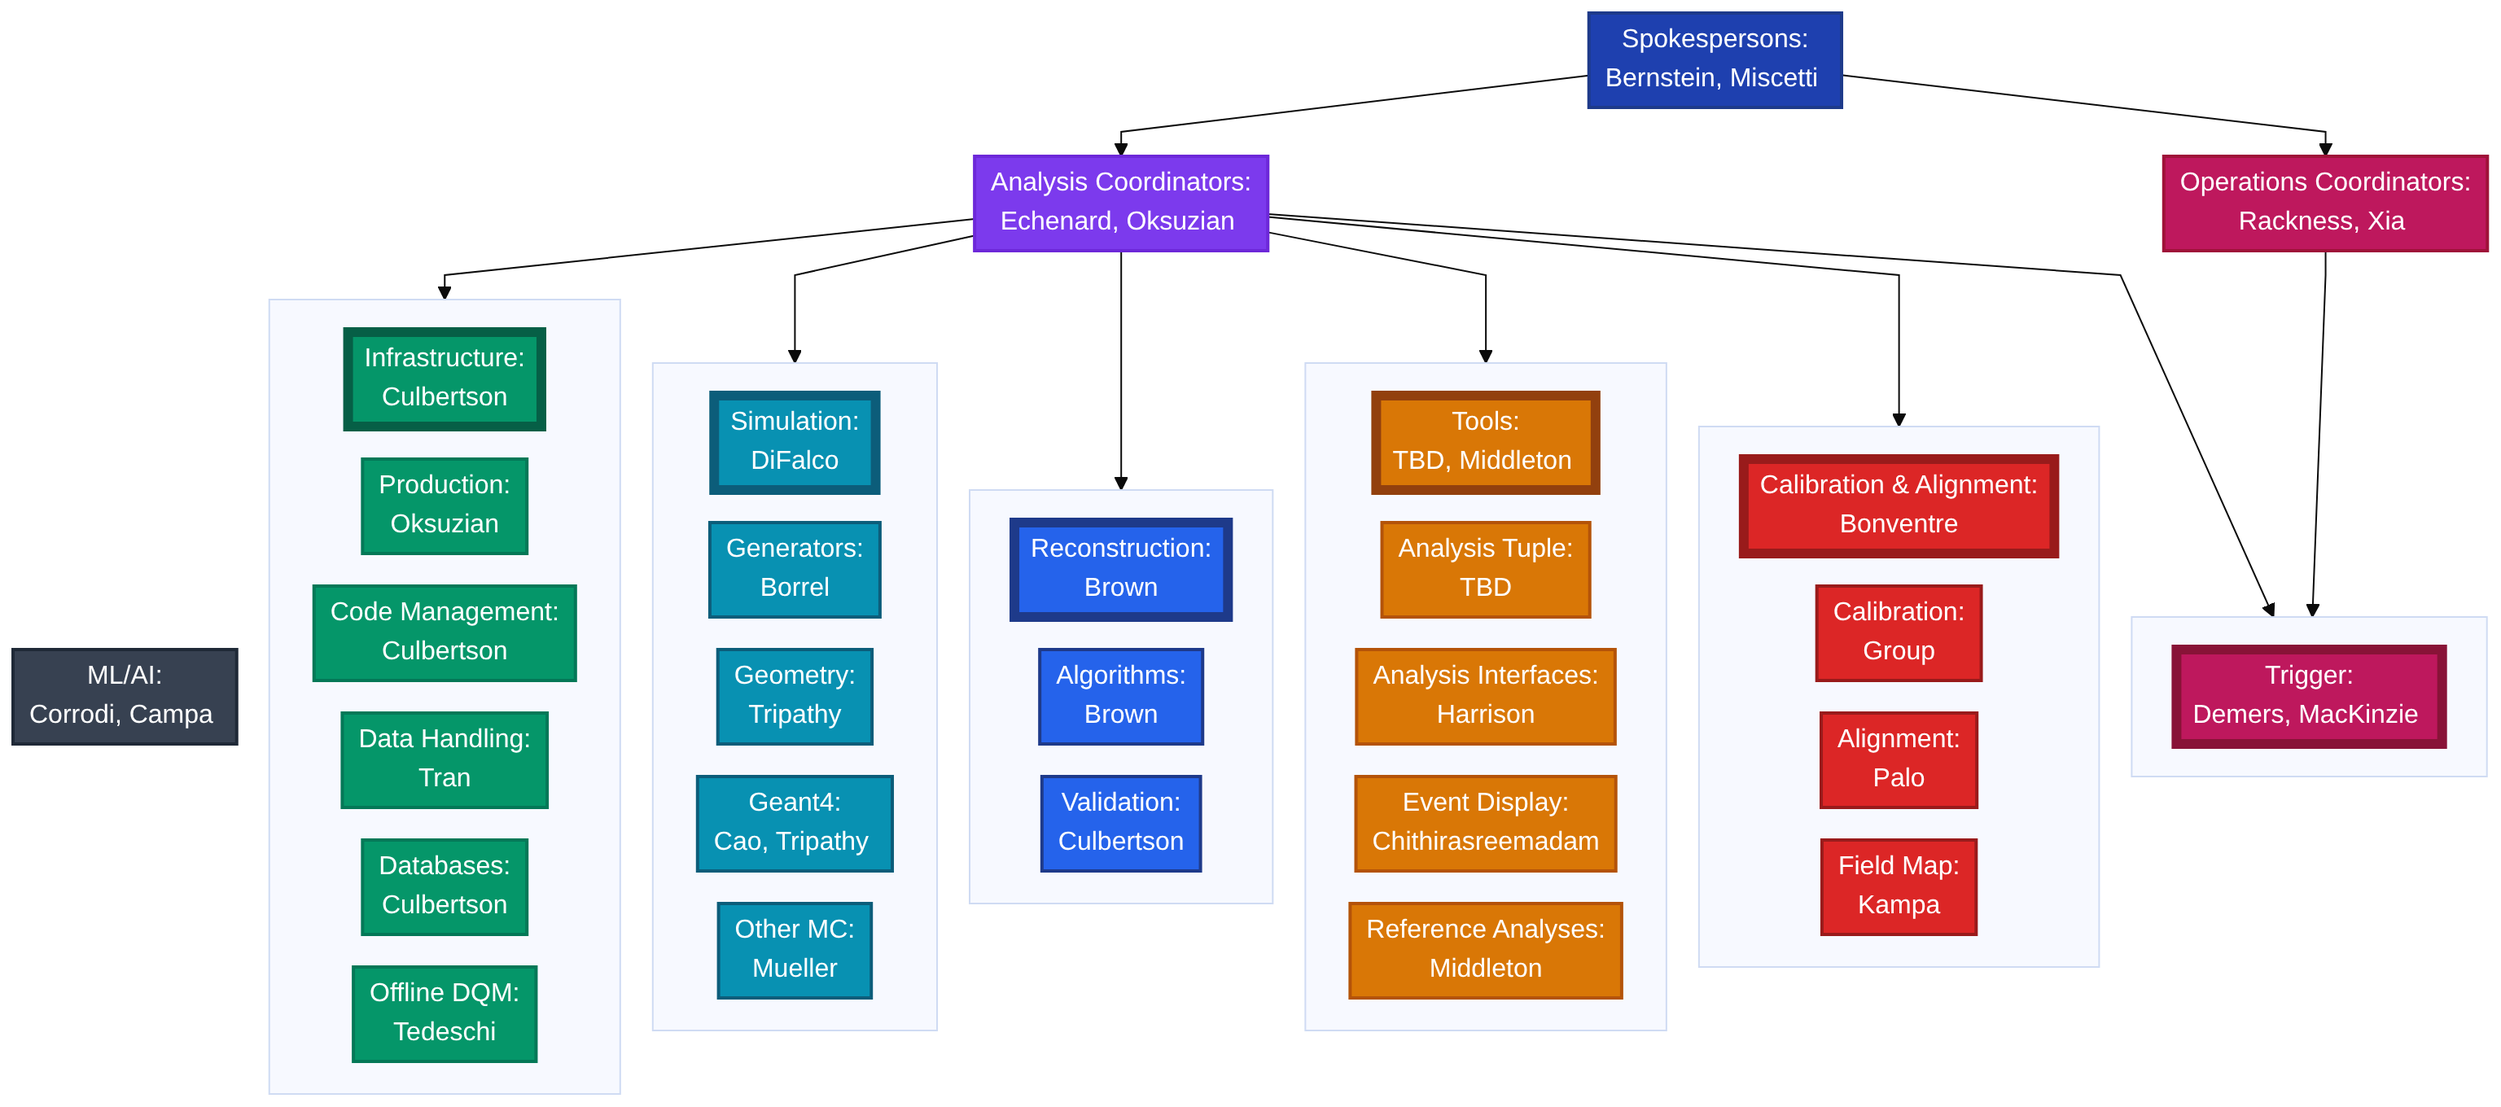
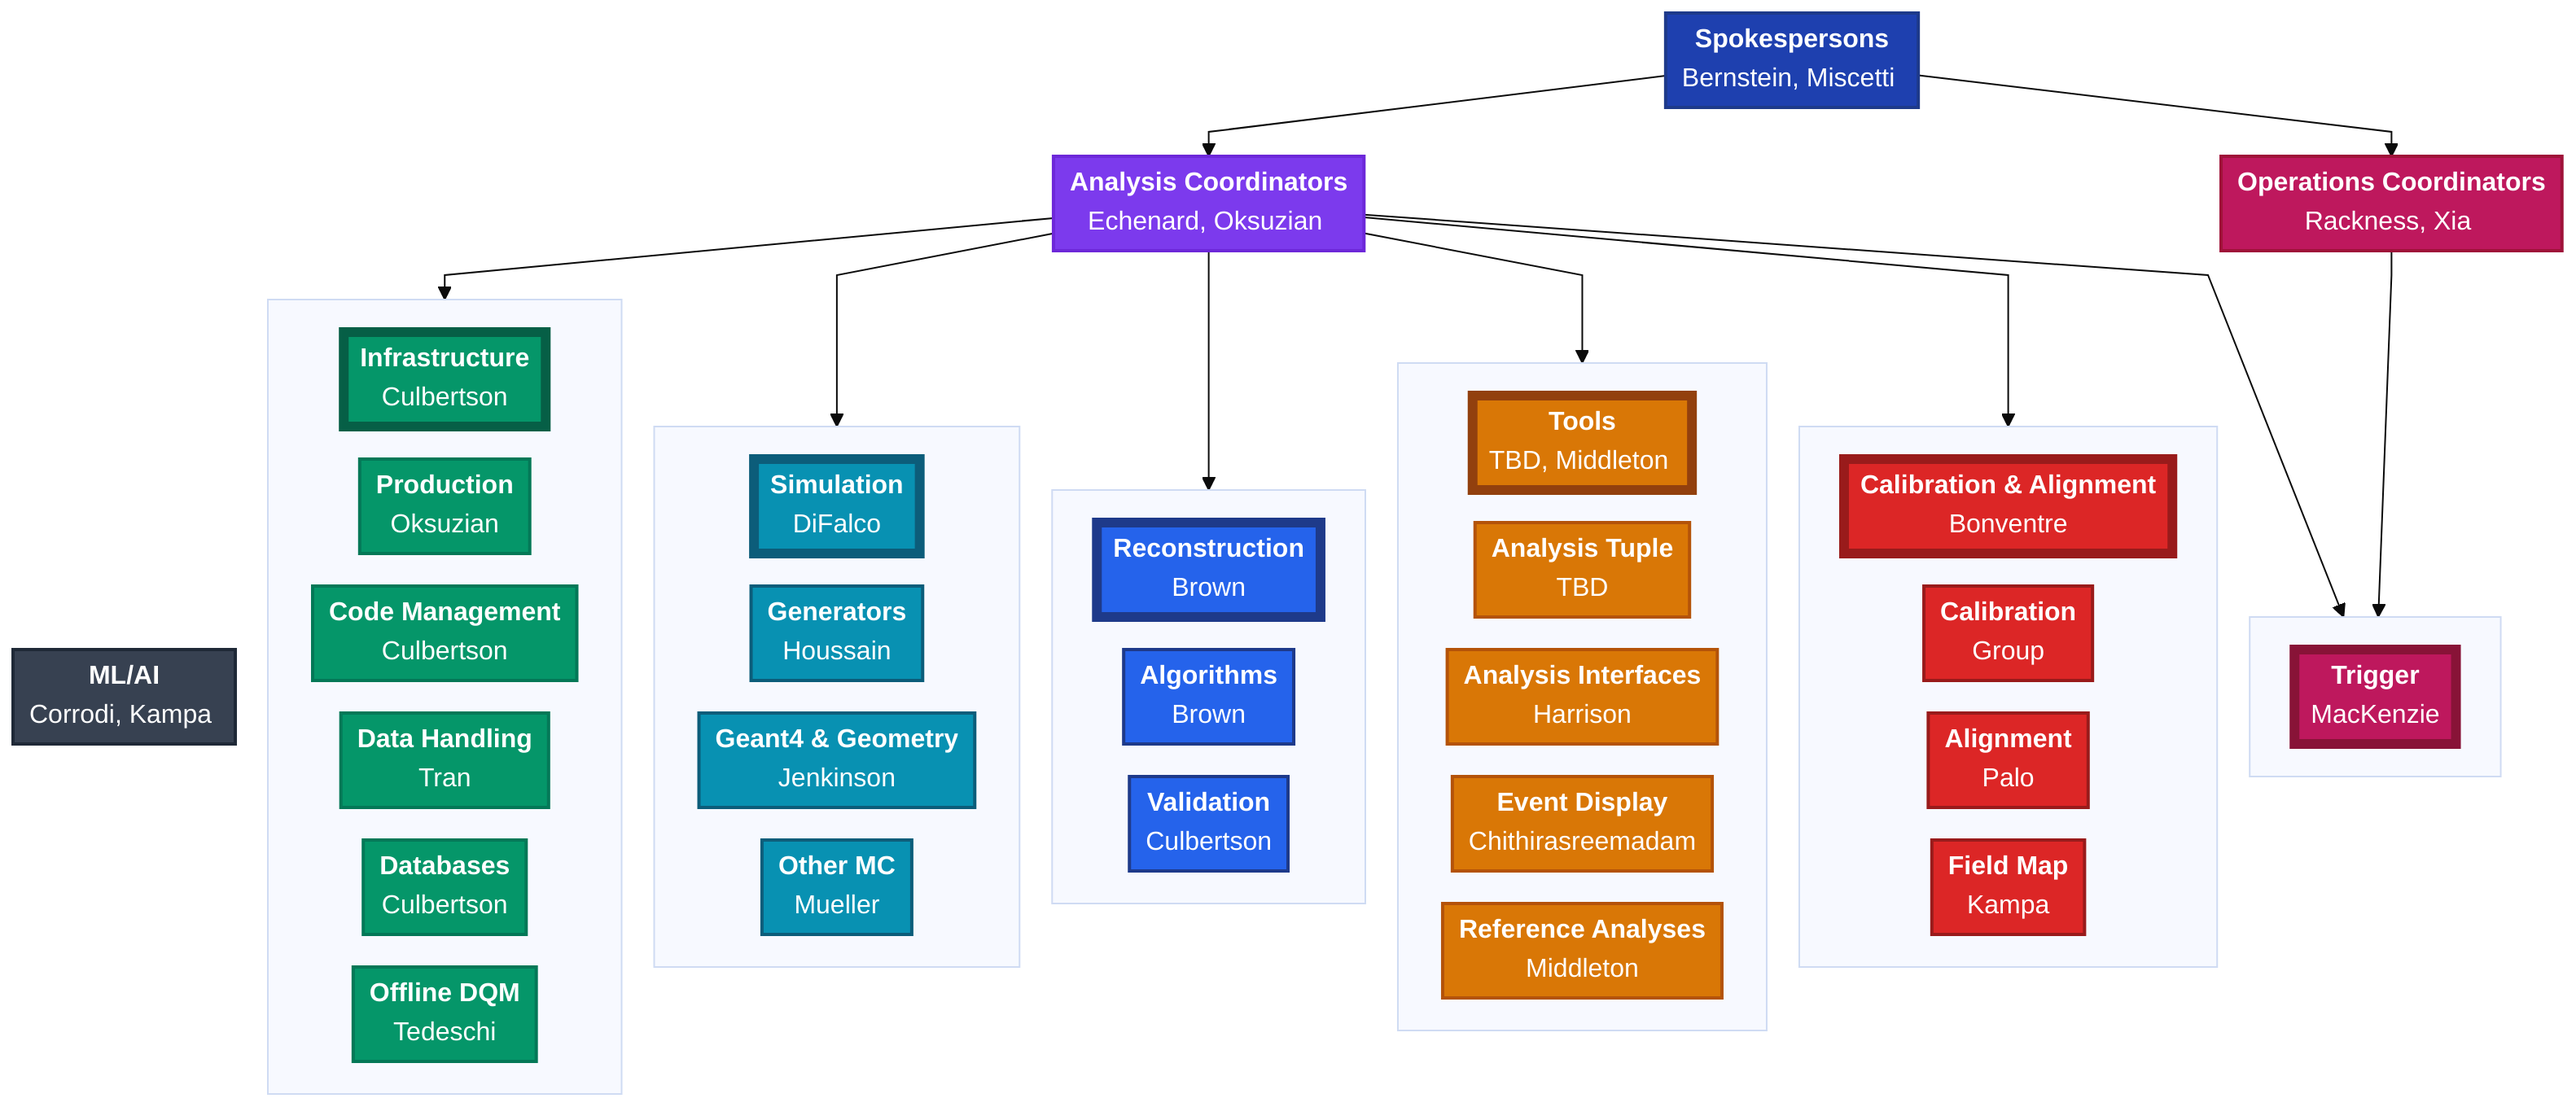
docs(org): drop label colons, bold headers, regenerate the PNG
Label style: "Infrastructure:<br/>Culbertson" becomes
"<b>Infrastructure</b><br/>Culbertson" -- the colon is redundant once
the name is on its own line, and bolding the function gives the
two-line label a hierarchy instead of two lines of equal weight.
Applied to all 27 nodes. htmlLabels and securityLevel:loose were
already set in the init block, so <b> needs no config change.

Also normalises the ampersand: the merged Geant4 & Geometry node had
&amp; while the pre-existing Calibration & Alignment node had a bare &.
Both render; matched the file's existing idiom.

Regenerates the PNG, which until now still showed the split
Geant4/Geometry subgroups and five superseded names (Demers/MacKinzie,
Grant, Campa, Borrel, Cao/Tripathy). Anyone linking the image was
getting the obsolete chart while the mermaid beside it was correct.

Rendered with mermaid-cli at 2x (3164x1360, close to the previous
3072x1360). Note for whoever regenerates it next: mmdc on mu2egpvm
cannot resolve its own puppeteer cache even after
`npx @puppeteer/browsers install chrome@131.0.6778.204`, so the config
passed via -p must name executablePath explicitly and pass
--no-sandbox. -w sets the viewport, not the output resolution; use -s.

Claude-Session: https://claude.ai/code/session_0188sbNRs537Esmwr4EPeNaF

diff --git a/docs/Mu2e_Analysis_Computing_Organization_2025-12_diagram.md b/docs/Mu2e_Analysis_Computing_Organization_2025-12_diagram.md
@@ -31,9 +31,9 @@ All from MacKenzie, org chat, 2026-08-12.
 ```mermaid
 %%{init: { 'theme': 'base', 'flowchart': { 'htmlLabels': true, 'nodeSpacing': 20, 'rankSpacing': 30, 'padding': 5, 'useMaxWidth': false, 'curve': 'linear' }, 'securityLevel': 'loose' } }%%
 graph TD
-    SPK[Spokespersons:<br/>Bernstein, Miscetti&nbsp;]
+    SPK[<b>Spokespersons</b><br/>Bernstein, Miscetti&nbsp;]
     
-    SPK --> AC[Analysis Coordinators:<br/>Echenard, Oksuzian&nbsp;]
+    SPK --> AC[<b>Analysis Coordinators</b><br/>Echenard, Oksuzian&nbsp;]
     
     AC --> INFGROUP
     AC --> SIMGROUP
@@ -41,49 +41,49 @@ graph TD
     AC --> TOOLSGROUP
     AC --> CALGROUP
     AC --> TRIGGROUP
-    SPK --> OC[Operations Coordinators:<br/>Rackness, Xia&nbsp;]
+    SPK --> OC[<b>Operations Coordinators</b><br/>Rackness, Xia&nbsp;]
     OC --> TRIGGROUP
-    AC -.-> ML[ML/AI:<br/>Corrodi, Kampa&nbsp;]
+    AC -.-> ML[<b>ML/AI</b><br/>Corrodi, Kampa&nbsp;]
     
     subgraph INFGROUP[" "]
-        INF[Infrastructure:<br/>Culbertson]
-        PROD[Production:<br/>Oksuzian]
-        CODE[Code Management:<br/>Culbertson]
-        DATA[Data Handling:<br/>Tran]
-        DB[Databases:<br/>Culbertson]
-        DQM[Offline DQM:<br/>Tedeschi]
+        INF[<b>Infrastructure</b><br/>Culbertson]
+        PROD[<b>Production</b><br/>Oksuzian]
+        CODE[<b>Code Management</b><br/>Culbertson]
+        DATA[<b>Data Handling</b><br/>Tran]
+        DB[<b>Databases</b><br/>Culbertson]
+        DQM[<b>Offline DQM</b><br/>Tedeschi]
     end
     
     subgraph SIMGROUP[" "]
-        SIM[Simulation:<br/>DiFalco]
-        GEN[Generators:<br/>Houssain]
-        G4GEOM[Geant4 &amp; Geometry:<br/>Jenkinson]
-        NONG4[Other MC:<br/>Mueller]
+        SIM[<b>Simulation</b><br/>DiFalco]
+        GEN[<b>Generators</b><br/>Houssain]
+        G4GEOM[<b>Geant4 & Geometry</b><br/>Jenkinson]
+        NONG4[<b>Other MC</b><br/>Mueller]
     end
     
     subgraph RECOGROUP[" "]
-        RECO[Reconstruction:<br/>Brown]
-        ALG[Algorithms:<br/>Brown]
-        VAL[Validation:<br/>Culbertson]
+        RECO[<b>Reconstruction</b><br/>Brown]
+        ALG[<b>Algorithms</b><br/>Brown]
+        VAL[<b>Validation</b><br/>Culbertson]
     end
     
     subgraph TOOLSGROUP[" "]
-        TOOLS[Tools:<br/>TBD, Middleton&nbsp;]
-        NTUP[Analysis Tuple:<br/>TBD]
-        IFACE[Analysis Interfaces:<br/>Harrison]
-        EVD[Event Display:<br/>Chithirasreemadam]
-        REF[Reference Analyses:<br/>Middleton]
+        TOOLS[<b>Tools</b><br/>TBD, Middleton&nbsp;]
+        NTUP[<b>Analysis Tuple</b><br/>TBD]
+        IFACE[<b>Analysis Interfaces</b><br/>Harrison]
+        EVD[<b>Event Display</b><br/>Chithirasreemadam]
+        REF[<b>Reference Analyses</b><br/>Middleton]
     end
     
     subgraph CALGROUP[" "]
-        CAL[Calibration & Alignment:<br/>Bonventre]
-        CALIB[Calibration:<br/>Group]
-        ALIGN[Alignment:<br/>Palo]
-        FMAP[Field Map:<br/>Kampa]
+        CAL[<b>Calibration & Alignment</b><br/>Bonventre]
+        CALIB[<b>Calibration</b><br/>Group]
+        ALIGN[<b>Alignment</b><br/>Palo]
+        FMAP[<b>Field Map</b><br/>Kampa]
     end
     
     subgraph TRIGGROUP[" "]
-        TRIG[Trigger:<br/>MacKenzie]
+        TRIG[<b>Trigger</b><br/>MacKenzie]
     end
     linkStyle 9 stroke:none,stroke-width:0
     
